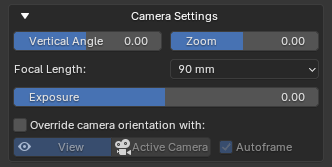
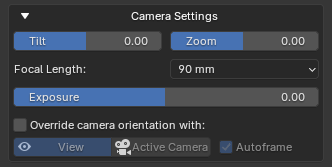
Fixes

Changed region(s): [[0.0904, 0.2096, 0.3313, 0.2994]]

diff --git a/docs/utilities.md b/docs/utilities.md
@@ -155,7 +155,7 @@ This utility lets you replace existing 'Shader Editor' nodes with custom Node-Gr
 
 - **Keep Original Shader Node**: Check this option if you want to retain the original node for manual inspection of the connections afterward. The original node will be moved to the side of the replaced node.
 - **Replacement Node-Group**: Select the custom Node-Group to replace the shader from a dropdown menu displaying all Node-Groups in the current blend file.
-- **Custom Attributes**: Set one or multiple socket attributes such as color or values on the new node. See [this section](importing_textures.md/#custom-attributes) in the documentation for detailed instructions.
+- **Custom Attributes**: Set one or multiple socket attributes such as color or values on the new node. See [this section](import_textures.md/#custom-attributes) in the documentation for detailed instructions.
 
 
 ---
@@ -174,7 +174,7 @@ This utility helps you locate materials with unconnected nodes in your file, suc
 - **Type**:
     - **All Unconnected Nodes**
     - **Image Texture Nodes**
-    - **BatchGenie Imported Textures**: Materials imported by BatchGenie that contain textures which could not be connected. See more [details here](importing_textures.md/#faq) about these nodes.
+    - **BatchGenie Imported Textures**: Materials imported by BatchGenie that contain textures which could not be connected. See more [details here](import_textures.md/#faq) about these nodes.
 - **Highlight Nodes**: Changes the color of the found nodes to red, making them easier to spot visually.
 
 <h5>Instructions</h5>
@@ -399,7 +399,7 @@ Helps delete any temporary files that might be left behind by BatchGenie. There 
     !!! info2 "Extra Info Nodes"
         Examples of these nodes include:
 
-        - '**Unable to connect**' nodes created during imports when there are issues connecting textures. [See details here](importing_textures.md/#faq).
+        - '**Unable to connect**' nodes created during imports when there are issues connecting textures. [See details here](import_textures.md/#faq).
 
         - '**Incorrect Color Space**' nodes created by the 'Color Space Validator' utility. [See details here](#color-space-validator).
 
@@ -545,7 +545,7 @@ This utility offers similar functionality to the [Replace Shader Nodes](#replace
     - **Active Node**: Select a node manually.
 - **Keep Original Node**: Check this option if you want to retain the original node for manual inspection of the connections afterward. The original node will be moved to the side of the replaced node.
 - **Replacement Node-Group**: Select the custom Node-Group to replace the shader from a dropdown menu displaying all Node-Groups in the current blend file.
-- **Custom Attributes**: Set one or multiple socket attributes such as color or values on the new node. See [this section](importing_textures.md/#custom-attributes) in the documentation for detailed instructions.
+- **Custom Attributes**: Set one or multiple socket attributes such as color or values on the new node. See [this section](import_textures.md/#custom-attributes) in the documentation for detailed instructions.
 
 
 ---

diff --git a/docs/render_asset_previews.md b/docs/render_asset_previews.md
@@ -147,10 +147,10 @@ When you select a Studio Preset, the following settings are available:
 
 ![Camera Settings](images/render_asset_previews_camera_settings.png){ .img-box align=left }
 
-- **Vertical Angle**: Adjusts the vertical angle of the camera, moving it up or down to change the perspective from which the scene is viewed, either looking up or down.
+- **Tilt**: Adjusts the camera’s tilt, allowing you to change the perspective by angling it up or down
 
-    ??? abstract "Vertical Angle Example"
-        ![Camera Angle Example](images/render_asset_previews_camera_angle_example.png){ .img-box }
+    ??? abstract "Tilt Example"
+        ![Camera Tilt Angle Example](images/render_asset_previews_camera_angle_example.png){ .img-box }
 
 - **Zoom**: Adjust the camera distance from the object. Zoom in for a close-up view or zoom out to add space around your object. The zoom is relative to the object or collection's size, making the adjustment proportional to its size.
 
@@ -171,7 +171,7 @@ When you select a Studio Preset, the following settings are available:
     **Autoframe**: When using the override, the **Autoframe** option automatically adjusts the camera to frame the selected object perfectly, ensuring that it fits within the view without any clipping. Disable this option for manual framing of your Asset, such as for close-up shots.
 
     !!! info2 "Autoframe"
-        - Autoframe cannot be disabled when rendering materials. However, you can still render selected Assets, and Autoframe will be disabled for all other elements except materials.
+        - Autoframe cannot be disabled when rendering materials. However, you can still render selected Assets, and Autoframe will be disabled for all other Assets except materials.
 
         - If you disable **Autoframe** and use any of the '**Studio Presets**' keep in mind that the location of the object/collection will be set to the world origin (0, 0, 0) during render so you'll need to adjust your framing accordingly.
 
